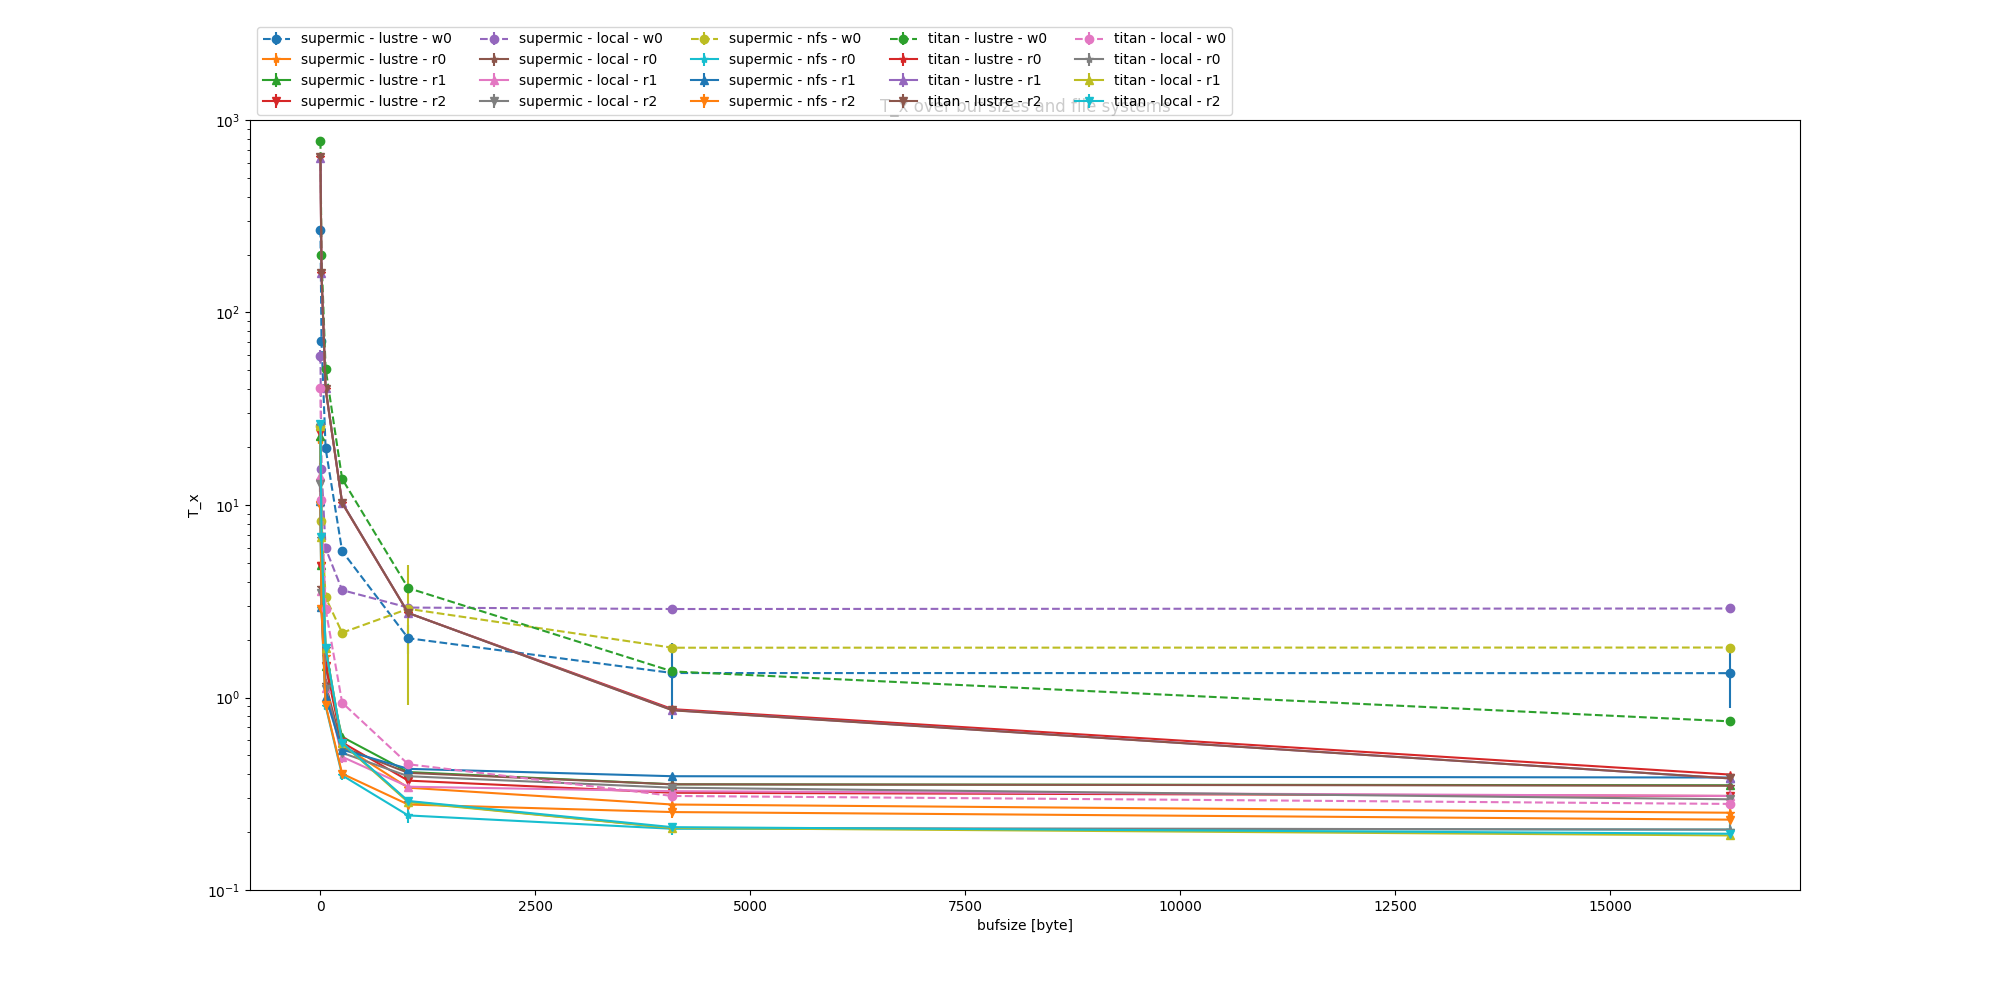
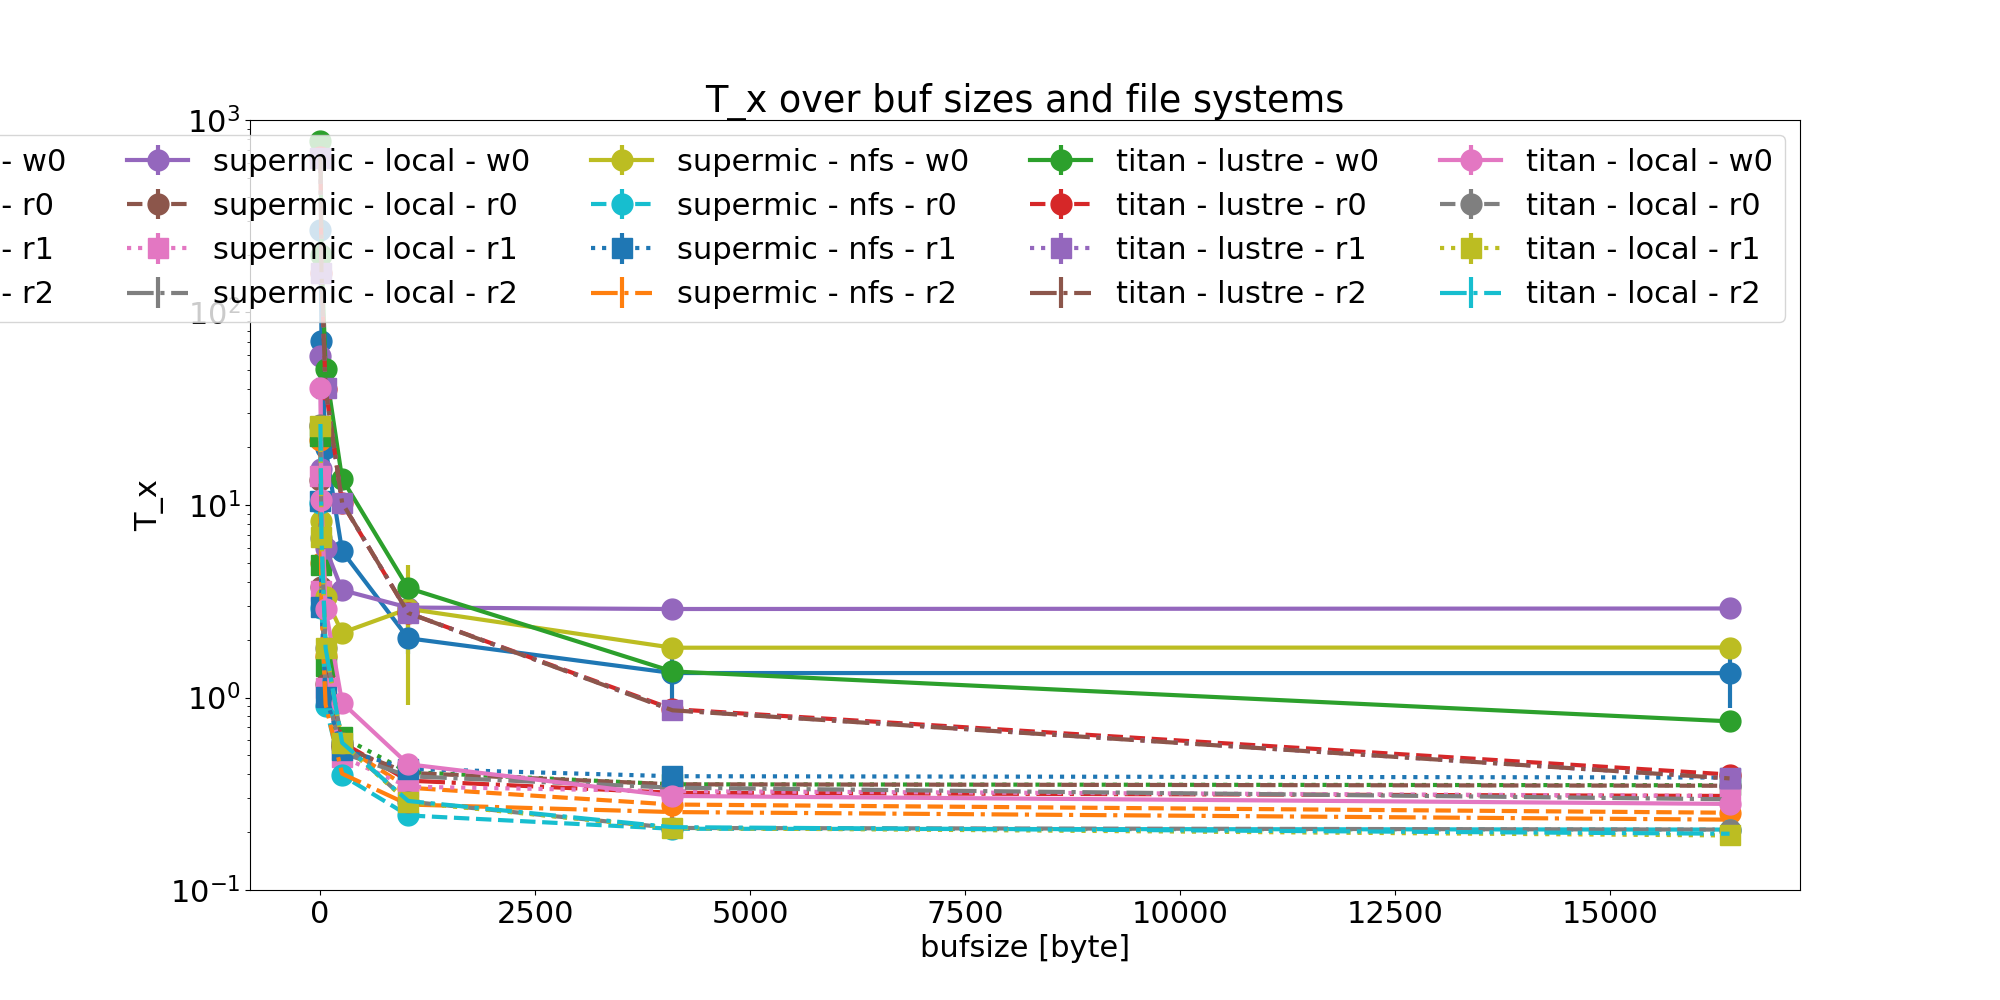
fig updates

diff --git a/analysis/bin/plot_io.py b/analysis/bin/plot_io.py
@@ -46,10 +46,15 @@ def main():
 
   # pprint.pprint(data)
 
-    formats = {'w0' : '--o',
-               'r0' : '-*',
-               'r1' : '-^',
-               'r2' : '-v'}
+    formats = {'w0' : '-o',
+               'r0' : '--o',
+               'r1' : ':s',
+               'r2' : '-.'}
+
+    font = {'family' : 'normal',
+          # 'weight' : 'bold',
+            'size'   : 22}
+    plt.rc('font', **font)
 
     # --------------------------------------------------------------------------
     def add_to_plt(plt, fmt, datasets):
@@ -61,7 +66,8 @@ def main():
             x.append(buf)
             y.append(tmp.mean())
             e.append(tmp.std())
-        plt.errorbar(x, y, yerr=e, fmt=fmt, capthick=20)
+        plt.errorbar(x, y, yerr=e, fmt=fmt, linewidth=3, capthick=20,
+                markersize=10)
     # --------------------------------------------------------------------------
     if 'hosts' in plot_by:
         for host in hosts:
@@ -84,7 +90,7 @@ def main():
             plt.yscale('log')
             plt.ylim([0.1, 1000])
             plt.title ('%s: T_x over buf sizes and file systems' % host)
-            plt.legend(labels, ncol=label_cols, loc='upper left', bbox_to_anchor=(0,1.13))
+            plt.legend(labels, ncol=label_cols, loc='upper right')
             plt.savefig('%s/figures/io_host_%s.png' % (PWD, host))
             print 'saved %s/figures/io_host_%s.png' % (PWD, host)
 
@@ -110,7 +116,7 @@ def main():
             plt.yscale('log')
             plt.ylim([0.1, 1000])
             plt.title ('%s: T_x over buf sizes and file systems' % fs)
-            plt.legend(labels, ncol=label_cols, loc='upper left', bbox_to_anchor=(0,1.13))
+            plt.legend(labels, ncol=label_cols, loc='upper right')
             plt.savefig('%s/figures/io_fs_%s.png' % (PWD, fs))
             print 'saved %s/figures/io_fs_%s.png' % (PWD, fs)
 
@@ -133,7 +139,8 @@ def main():
                         x.append(buf)
                         y.append(tmp.mean())
                         e.append(tmp.std())
-                    plt.errorbar(x, y, yerr=e, fmt=formats[mode], capthick=20)
+                    plt.errorbar(x, y, yerr=e, linewidth=3, markersize=15, 
+                                 fmt=formats[mode], capthick=20)
                   # print
                   # print label
      
@@ -142,7 +149,7 @@ def main():
         plt.yscale('log')
         plt.ylim([0.1, 1000])
         plt.title ('T_x over buf sizes and file systems')
-        plt.legend(labels, ncol=5, loc='upper left', bbox_to_anchor=(0,1.13))
+        plt.legend(labels, ncol=5, loc='upper right')
         plt.savefig('%s/figures/io.png' % PWD)
         print 'saved %s/figures/io.png' % PWD
 

diff --git a/analysis/bin/plot_omp.py b/analysis/bin/plot_omp.py
@@ -41,7 +41,13 @@ def main():
   # pprint.pprint(data)
 
     formats = {'omp' : '--o',
-               'mpi' : '-*' }
+               'mpi' : '-o' }
+
+    font = {'family' : 'normal',
+          # 'weight' : 'bold',
+            'size'   : 22}
+    plt.rc('font', **font)
+
 
     labels = list()
     plt.figure(figsize=(20,10))
@@ -58,15 +64,17 @@ def main():
                 x.append(cnt)
                 y.append(tmp.mean())
                 e.append(tmp.std())
-            plt.errorbar(x, y, yerr=e) #, fmt=formats[mode], capthick=20)
+            plt.errorbar(x, y, yerr=e, linewidth=3, markersize=15, 
+                         fmt=formats[mode], capthick=20)
           # print
           # print label
 
     plt.xlabel('# threads or processes [byte]')
     plt.ylabel('T_x')
   # plt.yscale('log')
-    plt.title ('T_x over threads / processes')
-    plt.legend(labels, ncol=2, loc='upper left', bbox_to_anchor=(0,1.13))
+ #  plt.label(loc = 'upper right')
+    plt.title ('Execution time over threads / processes')
+    plt.legend(labels, ncol=2, loc='upper right')
     plt.savefig('%s/figures/omp.png' % PWD)
     plt.show()
 
